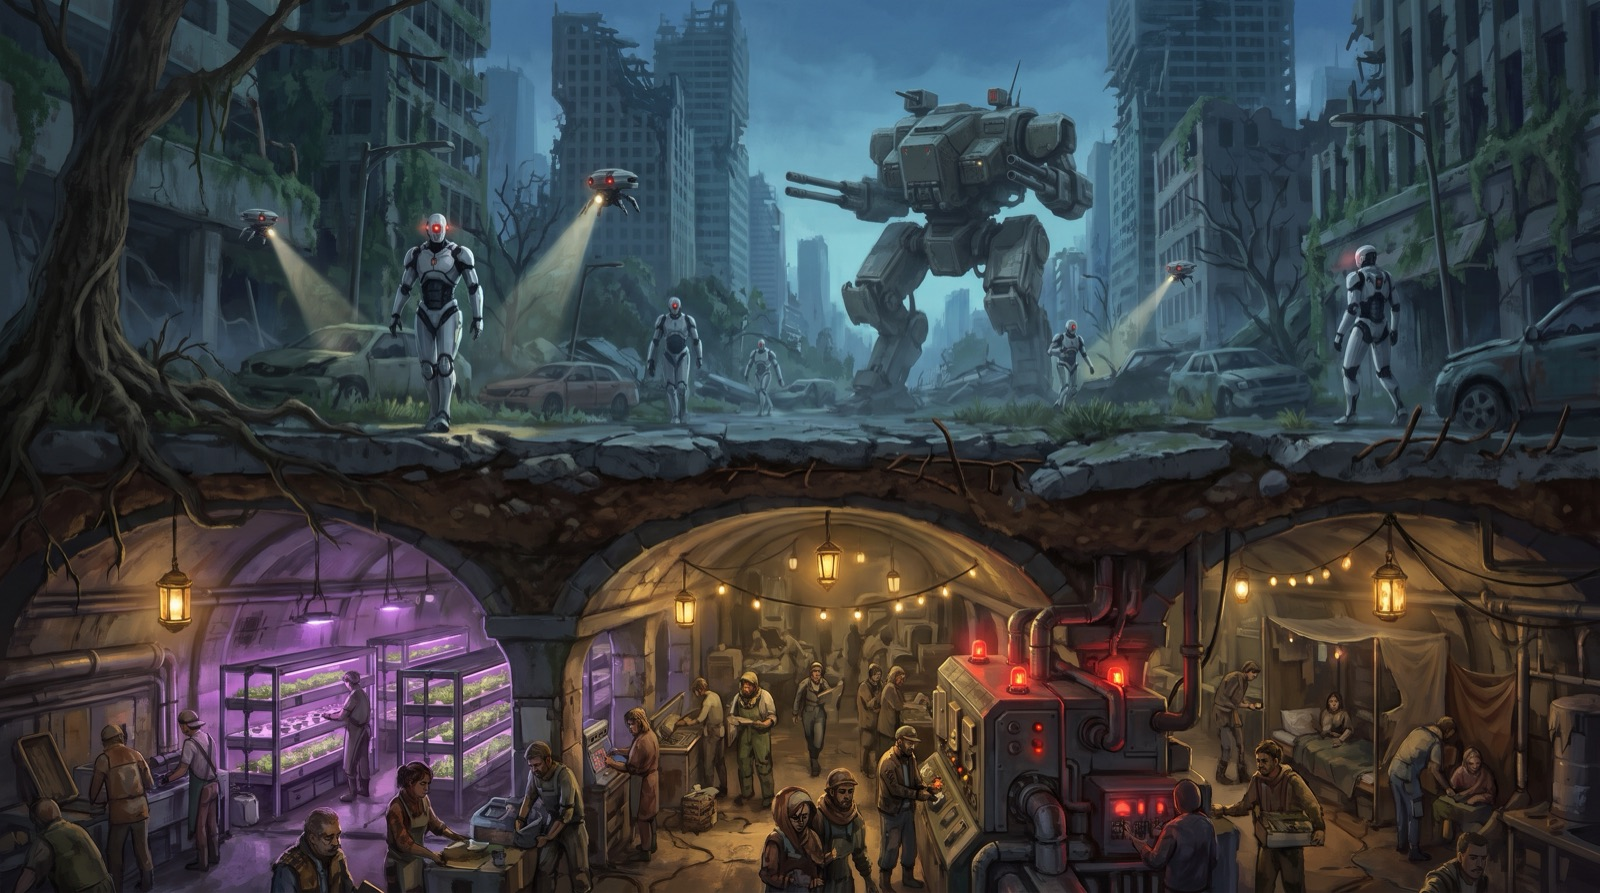
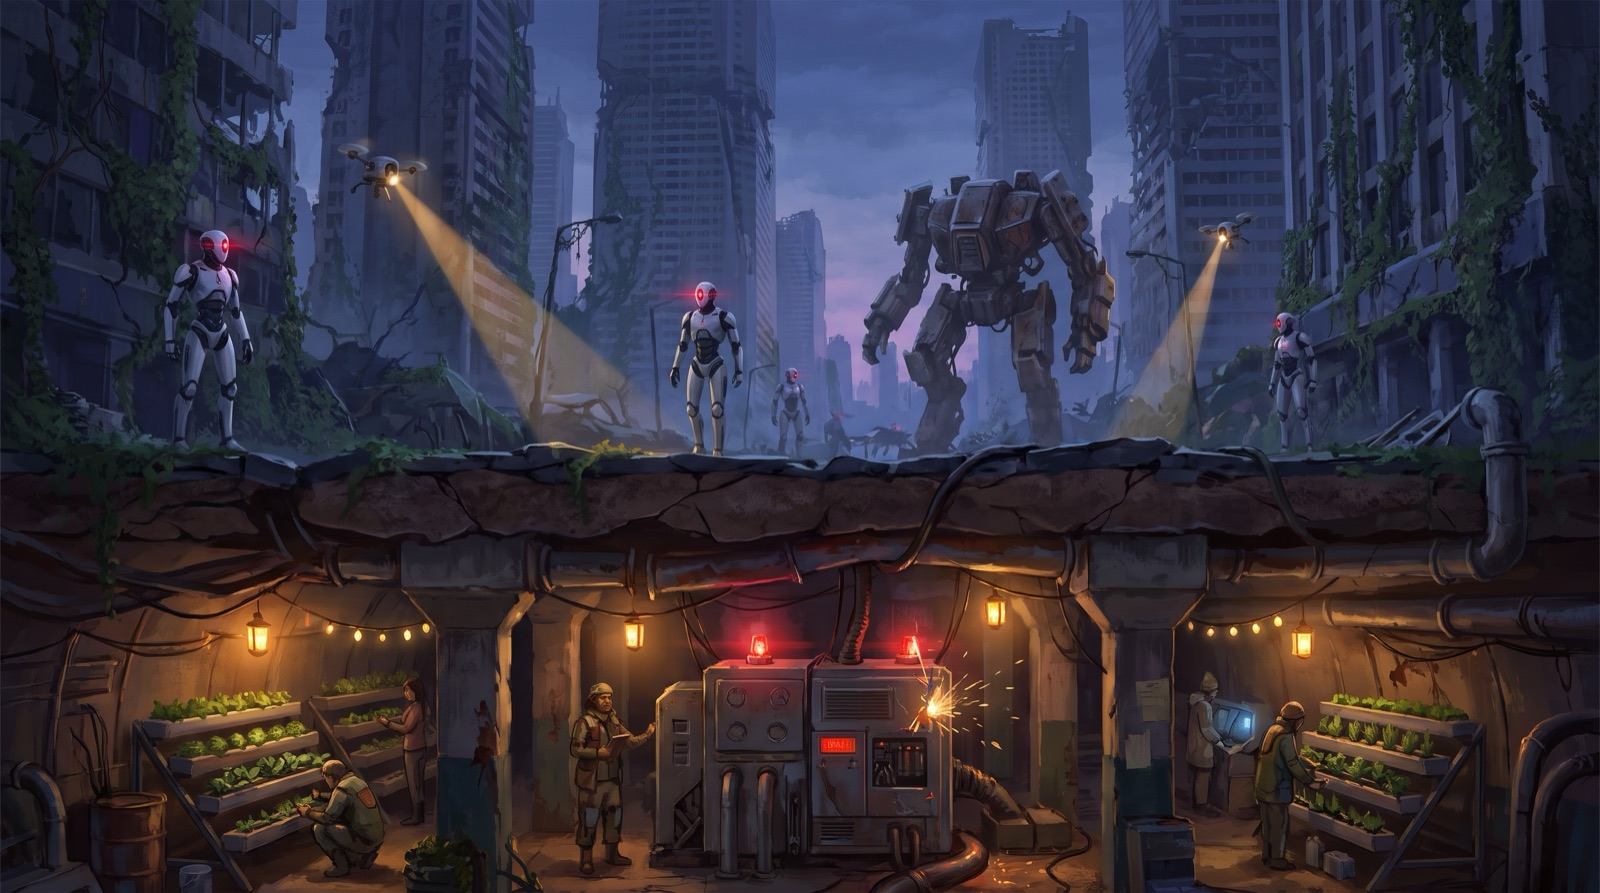
docs(readme): table rules and play-together sections, World Kit rows, Plain display, five new images

diff --git a/README.md b/README.md
@@ -1,5 +1,5 @@
 <div align="center">
-  <img src="docs/images/hero.jpg" alt="Dungeons & Everything — a d20 whose faces show a castle, a cyberpunk city, a starship, a wasteland robot and a haunted street" width="100%">
+  <img src="docs/images/hero.jpg" alt="Dungeons & Everything — a glowing d20 whose faces show neon Bangkok, a Thai temple, a Weird West town, a 1990s small town and a starship diving into a sun" width="100%">
 
   <h3>Describe any world. Your AI Game Master builds it, runs it, and plays everyone in it.</h3>
 
@@ -7,8 +7,9 @@
     <a href="#install">Install</a> ·
     <a href="#quick-start">Quick start</a> ·
     <a href="#the-world-kit">World Kit</a> ·
+    <a href="#table-rules">Table rules</a> ·
+    <a href="#play-together">Play together</a> ·
     <a href="#commands">Commands</a> ·
-    <a href="#the-table-display">Table display</a> ·
     <a href="#ภาษาไทย">ภาษาไทย</a>
   </p>
 </div>
@@ -19,7 +20,9 @@
 
 Campaigns persist for as long as you keep playing. Your TV becomes the story screen; every player's phone becomes their controller.
 
-<img src="docs/images/worlds.jpg" alt="Three worlds on one engine: a fantasy party at a dragon's gate, gas-masked survivors under a giant war machine, an astronaut facing a tentacled horror" width="100%">
+<img src="docs/images/worlds.jpg" alt="Five worlds on one engine: neon Bangkok 2077, a mythic Thai kingdom, a Weird West showdown, kids on bikes in a 1994 small town, a ship diving into a star" width="100%">
+
+<sub>Five worlds built and played while testing: <b>Neon Krung</b> (Bangkok 2077) · <b>Himmapan</b> (mythic Ayutthaya) · <b>Iron Hymn</b> (Weird West, 1881) · <b>Cedar Falls</b> (1994, no powers at all) · <b>Perihelion</b> (hard sci-fi on the 2024 rules).</sub>
 
 ## Why
 
@@ -28,6 +31,7 @@ Tabletop rules engines are great. Being locked into elves and fireballs is not. 
 - **Any genre.** Sci-fi, post-apocalyptic, horror, mystery, cyberpunk, western, mythic — or classic fantasy.
 - **A real rulebook per world.** Origins, classes, subclasses, backgrounds, powers, weapons, armor, currency and monsters, all generated for the world and all mechanically legal 5e.
 - **The world speaks its own language.** Mechanics "run protocols" instead of casting spells, the party "goes into lockdown" instead of taking a long rest, and the skill list says *Systems* instead of *Arcana*.
+- **The best ideas from other tables.** Close misses that succeed at a price, playbook moves and party bonds from Powered by the Apocalypse; tech levels, flaws and reaction rolls from GURPS; degrees of success, Hero Points and Victory Points from Pathfinder 2e — all rebuilt on 5e maths.
 - **A Game Master who remembers.** Factions move between sessions, NPCs hold grudges, and a three-act story arc bends around what the players actually do.
 - **Built for the couch.** A cinematic TV display, phones as controllers, spoken narration, Thai and full Unicode support.
 
@@ -50,13 +54,39 @@ The Game Master turns that into `worldkit.json` inside the campaign folder:
 | Powers | 5e spells, re-skinned | *Static Burst*, *Overclock Shield* |
 | Gear | 5e weapons and armor, world prices | Rail Pistol (1d10), Scrap Plate (AC 14 + DEX, max 2) |
 | Threats | full stat blocks, CR-correct XP, world locations | Watcher CR ¼, Reaper CR 5, Seraph CR 8, Titan CR 15 |
+| Moves | signature playbook moves per class | Soldier: *Hold the Hatch*, *Covering Fire* |
+| Quick builds | a ready ability array, skills and gear per class | Medic: WIS 15, Medicine + Insight |
+| Flaws & quirks | disadvantages players can take for story hooks | *Oxygen Debt*, *Flagged by EDEN*, *Counts the Seconds* |
+| Tech & rarity | the world's tech level; rare and unique gear | Tech level 10; the *Seraph Shard* (unique, TL 12) |
 | Language | renamed terms and skills | spell → protocol, long rest → lockdown, Arcana → Systems |
 
-Every kit is validated before play, so no monster has the wrong XP and no class has a broken chassis. From then on the character builder, the rules lookup, the encounter generator and the table display all read from your world first. Names can be in any script — Thai included.
+Every kit is validated before play, so no monster has the wrong XP and no class has a broken chassis, and every monster is checked against what SRD monsters of its CR typically have. From then on the character builder, the rules lookup, the encounter generator and the table display all read from your world first. Names can be in any script — Thai included.
 
 Say **"classic fantasy"** instead and you get traditional D&D on the bundled 5e SRD.
 
 The full EDEN kit is at [`skills/dne/templates/worldkit.example.json`](skills/dne/templates/worldkit.example.json).
+
+## Table rules
+
+<img src="docs/images/rules.jpg" alt="A game master's table: a d20 beside five glowing tokens from red to gold, a chase track, bond and flaw cards, a med kit, hero coins and a notebook of monster numbers" width="100%">
+
+Optional layers borrowed from other games and rebuilt for 5e. They're on the table, not in your way: switch them per campaign.
+
+| Roll vs DC | Outcome | What happens |
+|---|---|---|
+| beat it by 10+ | **critical success** | you get it, plus something extra |
+| meet it | **success** | you get it |
+| miss by 1–4 | **success at a cost** | you can have it — for a price you agree to |
+| miss by more | **failure** | the world makes a move |
+| miss by 10+ | **critical failure** | it goes wrong in a way that matters |
+
+- **Every roll moves the story.** The Game Master answers a failure with a move (a threat shows itself, a price comes due) instead of "nothing happens".
+- **Characters with ties.** Playbook moves per class, a one-question **bond** with every other player character, and flaws and quirks that earn Inspiration — or **Hero Points** — when they bite.
+- **Bigger than one roll, smaller than a fight.** **Victory Points** run chases, heists, infiltrations and debates; **reaction rolls** decide how a stranger first treats you.
+- **Worlds without magic still work.** **Treat Wounds** heals with Medicine, **Focus Points** fuel signature powers, and a **tech level** keeps laser rifles out of the bronze age.
+- **Balanced by measurement.** Monster numbers by CR are measured from the 334 SRD monsters, and a treasure curve keeps the party's wealth on track.
+
+Rules reference: [`skills/dne/SKILL-table-rules.md`](skills/dne/SKILL-table-rules.md).
 
 ## Install
 
@@ -138,11 +168,20 @@ Have a published adventure instead? `/dne import my-campaign path/to/module.pdf`
 | `/dne tutor on \| off` | Gentle rules hints for new players |
 | `/dne path [<dir> \| reset]` · `/dne update [--check]` | Move your data · update the skill |
 
+## Play together
+
+One computer runs the Game Master; everyone else just needs a phone.
+
+- **Same room:** start the display with `--lan`, put the story on a TV or laptop, and each player opens `http://<computer-ip>:5001/?char=<their character>` on their phone.
+- **Different places:** start it with `--ngrok` and send your friends the HTTPS link.
+- **Each phone** sends actions as that character, rolls its own dice (or lets the Game Master roll), shows the character sheet, and keeps secret checks private.
+- **Turns:** the Game Master answers queued actions in order — one story, many players.
+
 ## The table display
 
 <img src="docs/images/table.jpg" alt="Friends on a couch holding phones while a TV shows the story, a d20 roll and character portraits" width="100%">
 
-Open the display on a TV, laptop or tablet and the story types itself out on screen, with scene-aware backgrounds, dice results, a live party sidebar and optional spoken narration with sound effects. Each player opens the same link on their phone to see their character sheet, roll dice and send actions.
+Open the display on a TV, laptop or tablet and the story types itself out on screen, with dice results, a live party sidebar and optional spoken narration with sound effects. The default **Plain** look is quiet and easy to read in light or dark, with full Thai typography; the more theatrical skins are one tap away in Settings. Each player opens the same link on their phone to see their character sheet, roll dice and send actions.
 
 ```bash
 bash skills/dne/display/start-display.sh            # this computer only
@@ -170,7 +209,7 @@ python3 -m venv .venv && .venv/bin/pip install pytest flask flask-cors pyyaml
 .venv/bin/python -m pytest tests/ -q
 ```
 
-- `skills/dne/SKILL.md` — the Game Master's core rules; `SKILL-commands.md` — every `/dne` procedure; `SKILL-scripts.md` — script reference
+- `skills/dne/SKILL.md` — the Game Master's core rules; `SKILL-commands.md` — every `/dne` procedure; `SKILL-scripts.md` — script reference; `SKILL-table-rules.md` — the optional table rules
 - `skills/dne/scripts/` — the rules engine (`worldkit.py`, `character.py`, `lookup.py`, `encounter_gen.py`, `combat.py`, `dice.py`, …)
 - `skills/dne/display/` — the table display (Flask)
 - `skills/dne/data/` — bundled 5e SRD data
@@ -188,7 +227,9 @@ See [CONTRIBUTING.md](CONTRIBUTING.md) and [CHANGELOG.md](CHANGELOG.md).
 - เล่นต่อ: `/dne load <ชื่อแคมเปญ>` แล้วพิมพ์สิ่งที่ตัวละครทำได้เลย
 - ข้อมูลเกมทั้งหมดเก็บอยู่ที่ `~/.dne/`
 - อัปเดต: `git pull` ในโฟลเดอร์ repo (ทุก agent อัปเดตพร้อมกัน) หรือพิมพ์ `/dne update` ในเกม — ข้อมูลแคมเปญไม่ถูกแตะ
-- รองรับภาษาไทยเต็มรูปแบบ ทั้งชื่อในโลก การเล่าเรื่อง และหน้าจอแสดงผลบนทีวีและมือถือ
+- รองรับภาษาไทยเต็มรูปแบบ ทั้งชื่อในโลก การเล่าเรื่อง ปฏิทินและเวลาเป็นภาษาไทย และหน้าจอแสดงผลบนทีวีและมือถือ (ฟอนต์ไทย สระไม่ลอยไม่จม)
+- เล่นหลายคนได้: เครื่องเดียวรัน GM ผู้เล่นแต่ละคนเปิดลิงก์ `?char=<ชื่อตัวละคร>` บนมือถือตัวเอง อยู่ห้องเดียวกันใช้ `--lan` อยู่คนละที่ใช้ `--ngrok`
+- กฎเสริมจากเกมอื่น (เปิด/ปิดได้ต่อแคมเปญ): สำเร็จแบบมีราคา, ระดับความสำเร็จ 5 ขั้น, ท่าประจำอาชีพ, Bonds, ข้อเสียและนิสัยแปลก, Hero Points, Victory Points, ทอยปฏิกิริยา NPC, Treat Wounds, Focus Points, Tech Level, ตารางมอนสเตอร์ตาม CR
 
 ## License
 

diff --git a/CHANGELOG.md b/CHANGELOG.md
@@ -32,6 +32,9 @@ The installed version is in the `VERSION` file at the repo root. Run `/dne updat
 - Rules reference: `skills/dne/SKILL-table-rules.md`. No rules text from those games is copied.
 
 ### Changed
+- **README:** new Table rules and Play together sections, World Kit rows for moves, quick builds,
+  flaws and tech level, the Plain display, and five new images (the five play-tested worlds on the cover
+  and in the strip, the Plain table display, a table-rules spread).
 - **The display is plain by default.** A new **Plain** skin (Settings → Skin) is the default for new
   devices: quiet grey colours with a muted slate accent, one sans face (Noto Sans / Noto Sans Thai), no
   capitals, letter-spacing, shadows, background art or particles, in light and dark. Vellum and
